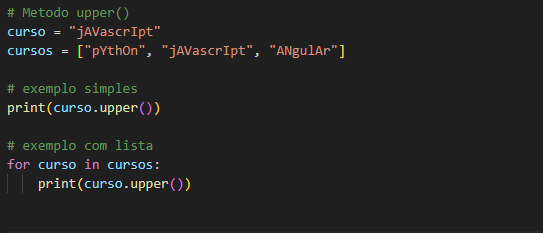
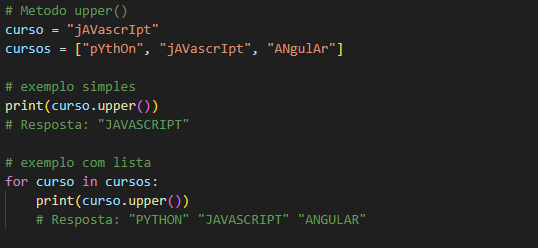
add mais formatações de string
Add os metodos:
 - strip.
 - strip.
 - rstrip.
 - center.
 - .join.

diff --git a/9 - Manipulando Strings/1-formatando-strings/7-metodo-center.py b/9 - Manipulando Strings/1-formatando-strings/7-metodo-center.py
@@ -1,0 +1,16 @@
+# Metodo center()
+menu = "Python", "Java", "SQL"
+
+print(menu[0].center(20, "#"))
+# Resposta: #######Python#######
+
+print(menu[1].center(20, "#"))
+# Resposta: ########Java########
+
+print(menu[2].center(20, "#"))
+# Resposta: ########SQL#########
+
+
+# Metodo center é ma forma de junção para centralizar uma string.
+# Podemos determinar a quantidade de caracteres que serão usados para fazer a centraização, nesse caso foram 20 contando os caracteres das strings.
+

diff --git a/9 - Manipulando Strings/1-formatando-strings/1-metodo-upper.py b/9 - Manipulando Strings/1-formatando-strings/1-metodo-upper.py
@@ -4,9 +4,11 @@ cursos = ["pYthOn", "jAVascrIpt", "ANgulAr"]
 
 # exemplo simples
 print(curso.upper())
+# Resposta: "JAVASCRIPT"
 
 # exemplo com lista
 for curso in cursos:
     print(curso.upper())
+    # Resposta: "PYTHON" "JAVASCRIPT" "ANGULAR"
 
 

diff --git a/9 - Manipulando Strings/1-formatando-strings/2-metodo-lower.py b/9 - Manipulando Strings/1-formatando-strings/2-metodo-lower.py
@@ -4,9 +4,11 @@ cursos = ["pYthOn", "jAVascrIpt", "ANgulAr"]
 
 # exemplo simples
 print(curso.lower())
+# Resposta: "angular"
 
 # exemplo com lista
 for curso in cursos:
     print(curso.lower())
+    # Resposta: "python" "javascript" "angular"
 
 

diff --git a/9 - Manipulando Strings/1-formatando-strings/3-metodo-title.py b/9 - Manipulando Strings/1-formatando-strings/3-metodo-title.py
@@ -4,9 +4,11 @@ cursos = ["pYthOn", "jAVascrIpt", "ANgulAr"]
 
 # exemplo simples
 print(curso.title())
+# Resposta: "Python"
 
 # exemplo com lista
 for curso in cursos:
     print(curso.title())
+    # Resposta: "Python" "Javascript" "Angular"
 
 

diff --git a/9 - Manipulando Strings/1-formatando-strings/6-metodo-rstrip.py b/9 - Manipulando Strings/1-formatando-strings/6-metodo-rstrip.py
@@ -1,0 +1,9 @@
+# Metodo rstrip()
+curso = "      JavaScript    "
+
+print(curso.rstrip())
+# Resposta: "      JavaScript"
+
+# Metodo rstrip() retira o espaçamento apenas do lado direito da string.
+
+

diff --git a/9 - Manipulando Strings/1-formatando-strings/5-metodo-lstrip.py b/9 - Manipulando Strings/1-formatando-strings/5-metodo-lstrip.py
@@ -1,0 +1,9 @@
+# Metodo lstrip()
+curso = "  Angular   "
+
+print(curso.lstrip())
+# Resposta: "Angular   "
+
+# Metodo lstrip() retira o espaçamento apenas do lado esquerdo da string.
+
+

diff --git a/9 - Manipulando Strings/1-formatando-strings/8-metodo-join.py b/9 - Manipulando Strings/1-formatando-strings/8-metodo-join.py
@@ -1,0 +1,11 @@
+# Metodo .join()
+nome = "Henrique"
+numeros = "123456"
+
+print(".".join(nome))
+# Resposta: "H.e.n.r.i.q.u.e"
+
+print("-".join(numeros))
+# Resposta: "1-2-3-4-5-6"
+
+

diff --git a/9 - Manipulando Strings/1-formatando-strings/4-metodo-strip.py b/9 - Manipulando Strings/1-formatando-strings/4-metodo-strip.py
@@ -1,0 +1,9 @@
+# Metodo strip()
+curso = "   Python  "
+
+print(curso.strip())
+# Resposta: "Python"
+
+# Metodo strip() ira retirar os espaçamentos dos dois lados da string
+
+

diff --git a/9 - Manipulando Strings/README.md b/9 - Manipulando Strings/README.md
@@ -13,11 +13,12 @@
 
     # exemplo simples
     print(curso.upper())
+    # Resposta: "JAVASCRIPT"
 
     # exemplo com lista
     for curso in cursos:
         print(curso.upper())
-    
+        # Resposta: "PYTHON" "JAVASCRIPT" "ANGULAR"
   </blockquote>
   <img src="img/1 - metodo upper( ).png">
 
@@ -35,11 +36,12 @@
 
     # exemplo simples
     print(curso.lower())
+    # Resposta: "angular"
 
     # exemplo com lista
     for curso in cursos:
         print(curso.lower())
-  
+        # Resposta: "python" "javascript" "angular"
   </blockquote>
   <img src="img/2 - metodo lower( ).png">
 
@@ -57,11 +59,13 @@
 
     # exemplo simples
     print(curso.title())
+    # Resposta: "Python"
 
     # exemplo com lista
     for curso in cursos:
         print(curso.title())
-  
+        # Resposta: "Python" "Javascript" "Angular"
+    
   </blockquote>
   <img src="img/3 - metodo title( ).png">
 
@@ -74,6 +78,97 @@
   Código para copiar:
   <blockquote>
   
-  
+    curso = "   Python  "
+
+    print(curso.strip())
+    # Resposta: "Python"
+
+    # Metodo strip() ira retirar os espaçamentos dos dois lados da string
   
   </blockquote>
+  <img src="img/4 - metodo strip( ).png">
+
+  ___
+  <br>
+
+  - Metodo **lstrip( )** <br>
+  Retira espaçamento apenas do lado esquerdo da string.
+
+  Código para copiar:
+  <blockquote>
+  
+    curso = "  Angular   "
+
+    print(curso.lstrip())
+    # Resposta: "Angular   "
+
+    # Metodo lstrip() retira o espaçamento apenas do lado esquerdo da string.
+  
+  </blockquote>
+  <img src="img/5 - metodo lstrip( ).png">
+
+  ___
+  <br>
+
+  - Metodo **rstrip( )** <br> 
+  Retira o espaçamento apenas do lado direito da string.
+
+  Código para copiar:
+  <blockquote>
+  
+    curso = "      JavaScript    "
+
+    print(curso.rstrip())
+    # Resposta: "      JavaScript"
+
+    # Metodo rstrip() retira o espaçamento apenas do lado direito da string.
+  
+  </blockquote>
+  <img src="img/6 - metodo rstrip( ).png">
+
+
+<h2>Junções e Centralização de String</h2>
+
+  - Metodo **center( )** <br>
+  Metodo center é ma forma de junção para centralizar uma string. <br>
+  Podemos determinar a quantidade de caracteres que serão usados para fazer a centraização, nesse caso foram 20, contando os caracteres das strings.
+
+  Código para copiar:
+  <blockquote>
+  
+    menu = "Python", "Java", "SQL"
+
+    print(menu[0].center(20, "#"))
+    # Resposta: #######Python#######
+
+    print(menu[1].center(20, "#"))
+    # Resposta: ########Java########
+
+    print(menu[2].center(20, "#"))
+    # Resposta: ########SQL#########
+  
+  </blockquote>
+  <img src="img/7 - metodo center( ).png">
+
+  ___
+  <br>
+
+  - Metodo **.join( )** <br>
+  Serve para juntarmos um determinado caracter a nossa string.<br>
+  Ele irá adicionar esse caracter entre cada letra da nossa string.
+
+  Código para copiar:
+  <blockquote>
+  
+    nome = "Henrique"
+    numeros = "123456"
+
+    print(".".join(nome))
+    # Resposta: "H.e.n.r.i.q.u.e"
+
+    print("-".join(numeros))
+    # Resposta: "1-2-3-4-5-6"
+  
+  </blockquote>
+  <img src="img/8 - metodo .join( ).png">
+
